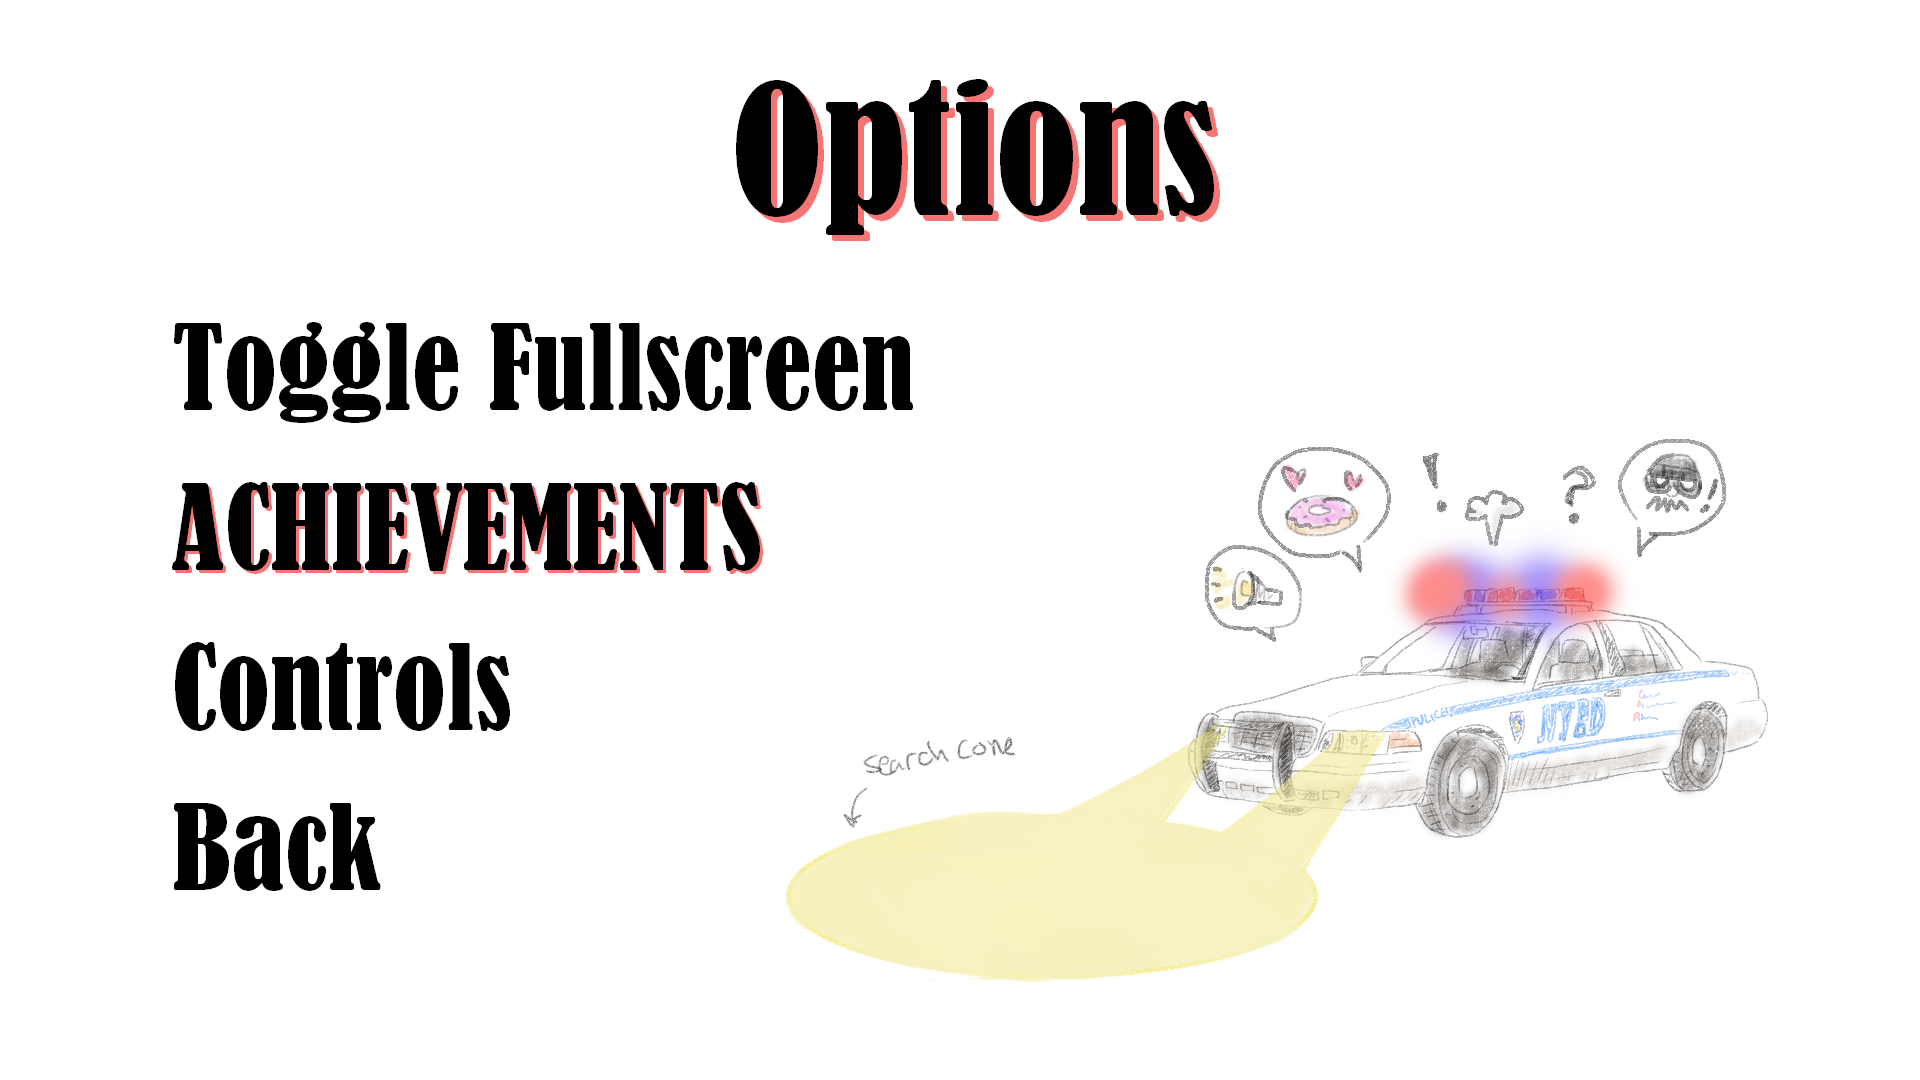
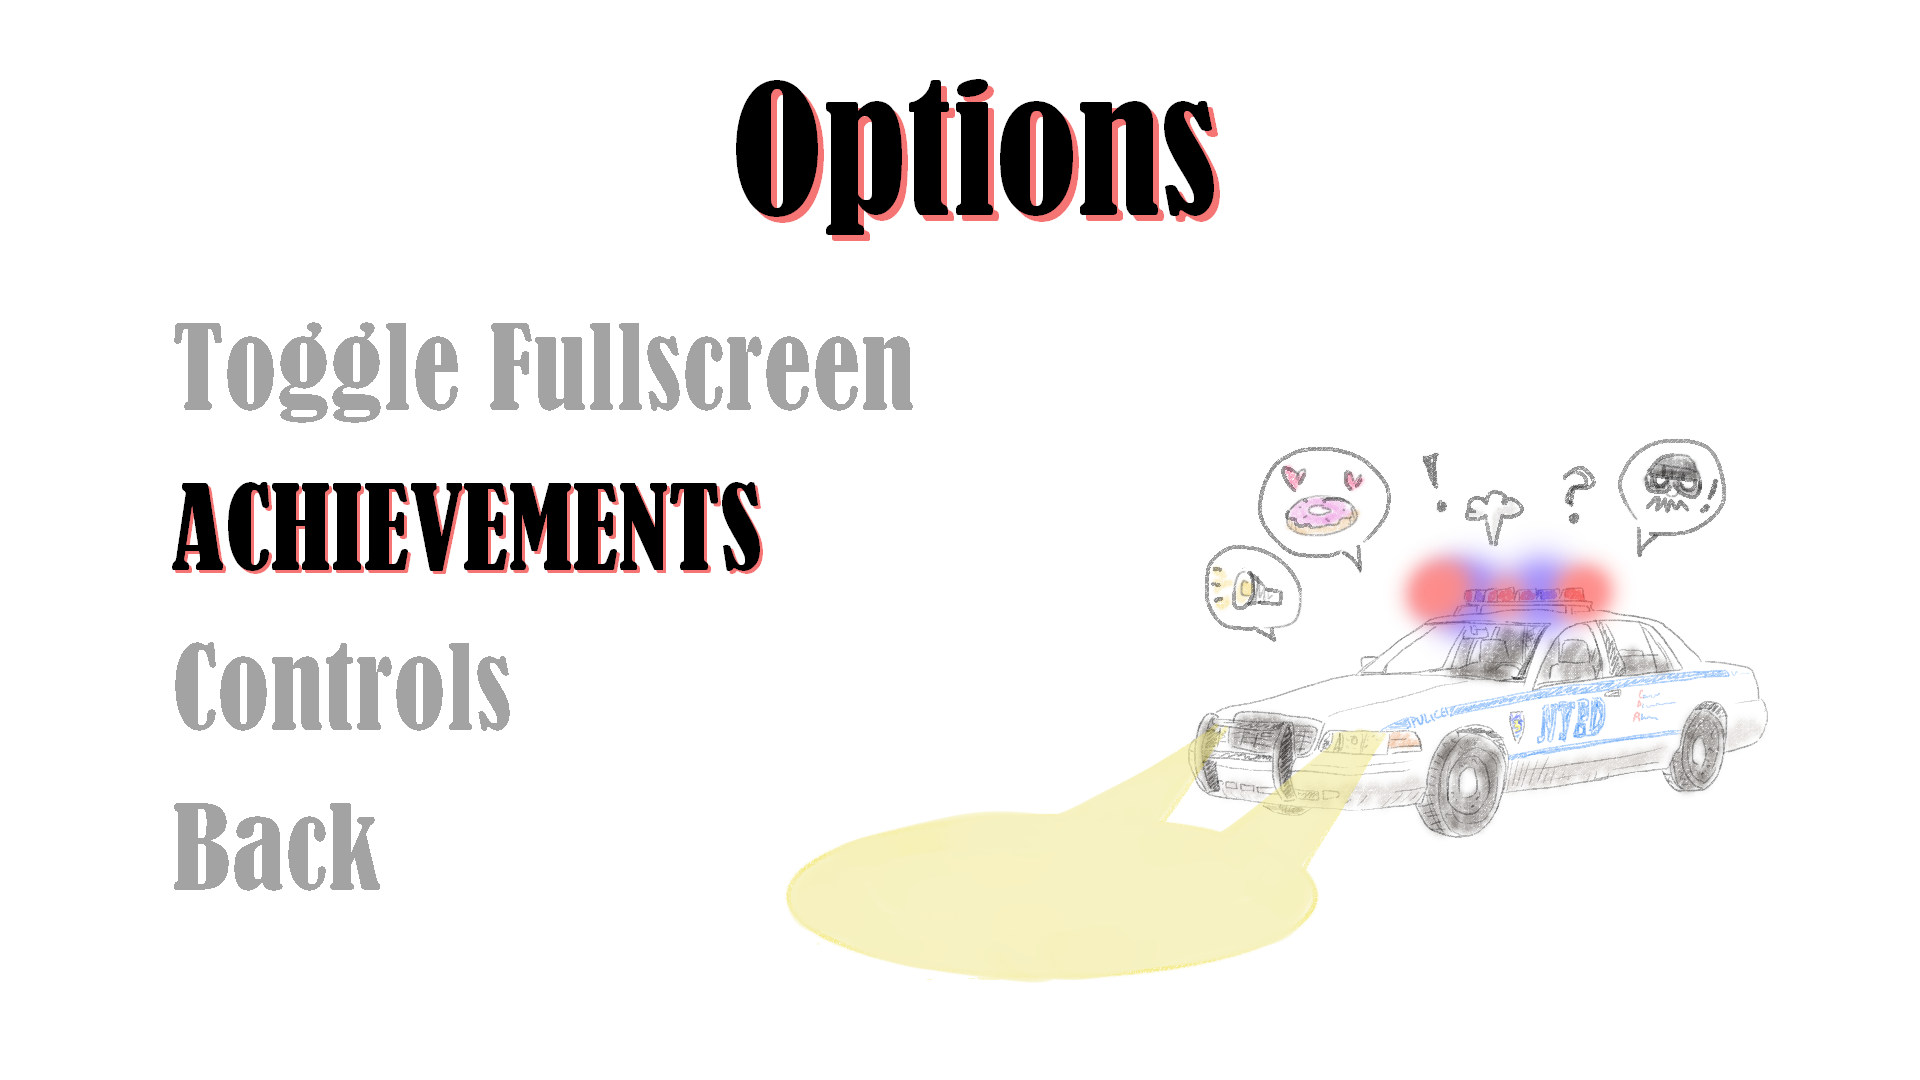
broken menu

diff --git a/AL_CARPONE/MainMenu.cpp b/AL_CARPONE/MainMenu.cpp
@@ -1,6 +1,9 @@
 #include "MainMenu.h"
 #include "physx_globals.h"
 
+#include <glm/glm.hpp>
+#include <glm/gtc/matrix_transform.hpp>
+
 #include "util.h" //load_positions
 
 
@@ -12,7 +15,7 @@ MainMenu::MainMenu() {
 	gameWinScreen = Model("models/mainMenu/WINSCREEN.obj");
 	gameLoseScreen = Model("models/mainMenu/LOSESCREEN.obj");
 	jailScreen = Model("models/mainMenu/BUSTED.obj");
-
+	checkmark = Model("models/mainMenu/checkmark.obj");
 	
 	selectionScreens = {
 		// Main menu
@@ -50,8 +53,12 @@ MainMenu::MainMenu() {
 ////////////////////////////////////////////////////////////////////////
 
 void MainMenu::drawMenu(GraphicsSystem& graphics, State& state, AudioSystem* audio) {
+
 	graphics.shader2D->use();
 	selectionScreens[selectedOption].Draw(*graphics.shader2D);
+	if (selectedOption == MenuSelection::ACHIEVEMENTS) {
+		drawCheckmarks(graphics, state);
+	}
 	handleInputs(state, audio, &graphics);
 }
 
@@ -76,12 +83,52 @@ void MainMenu::drawLoseScreen(GraphicsSystem& graphics) {
 	gameLoseScreen.Draw(*graphics.shader2D);
 }
 
-
-
 void MainMenu::drawJailScreen(GraphicsSystem* graphics) {
 	graphics->shader2D->use();
 	jailScreen.Draw(*graphics->shader2D);
 }
+
+// Where to place checkmark
+void MainMenu::drawCheckmarks(GraphicsSystem& graphics, State& state) {
+
+	// Left side
+	if (state.isJumpOutOfMap) {
+		glm::mat4 pos = glm::translate(glm::mat4(1.f), glm::vec3(-0.8, 0.5, 0));
+		graphics.shader2D->setMat4("model", pos);
+		checkmark.Draw(*graphics.shader2D);
+	}
+	if (state.isFinishGame) {
+		glm::mat4 pos = glm::translate(glm::mat4(1.f), glm::vec3(-0.8, -0.1, 0));
+		graphics.shader2D->setMat4("model", pos);
+		checkmark.Draw(*graphics.shader2D);
+	}
+	if (state.isDupeThePolice) {
+		glm::mat4 pos = glm::translate(glm::mat4(1.f), glm::vec3(-0.8, -0.8, 0));
+		graphics.shader2D->setMat4("model", pos);
+		checkmark.Draw(*graphics.shader2D);
+	}
+	
+	// Right side
+	if (state.unlockedAllUpgrades) {
+		glm::mat4 pos = glm::translate(glm::mat4(1.f), glm::vec3(0.3, 0.5, 0));
+		graphics.shader2D->setMat4("model", pos);
+		checkmark.Draw(*graphics.shader2D);
+	}
+	if (state.isMillionaire) {
+		glm::mat4 pos = glm::translate(glm::mat4(1.f), glm::vec3(0.3, -0.1, 0));
+		graphics.shader2D->setMat4("model", pos);
+		checkmark.Draw(*graphics.shader2D);
+	}
+	if (state.isRoofOfPoliceStation) {
+		glm::mat4 pos = glm::translate(glm::mat4(1.f), glm::vec3(0.3, -0.8, 0));
+		graphics.shader2D->setMat4("model", pos);
+		checkmark.Draw(*graphics.shader2D);
+	}
+	graphics.shader2D->setMat4("model", glm::mat4(1.f));
+	std::cout << "drawing checkmarks" << std::endl;
+}
+
+
 
 ////////////////////////////////////////////////////////////////////////
 // INPUT HANDLING
@@ -90,13 +137,27 @@ void MainMenu::drawJailScreen(GraphicsSystem* graphics) {
 
 void MainMenu::selectUp(State& state, AudioSystem* audio) {
 
-	if (selectedMenu == MenuType::ACHIEVEMENTS_MENU) { // special case
-		selectedOption = MenuSelection::BACK_TO_OPTIONS;
-	}
-	else {
-		int options = (selectedMenu == MenuType::OPTIONS_MENU) ? 4 : 3;
-		selectedOption = (selectedOption - 1) % options; // Each menu has 3 options (except options)
-		selectedOption += selectedMenu * 3;
+	std::cout << selectedMenu << ", " << selectedOption << std::endl;
+
+	switch (selectedMenu) {
+
+	case MenuType::MAIN_MENU:
+		selectedOption = (selectedOption - 1) % 3;
+		break;
+
+	case MenuType::OPTIONS_MENU:
+		selectedOption = (selectedOption - 1) % 4;
+		selectedOption += 3;
+		break;
+
+	case MenuType::CONTROLS_MENU:
+		selectedOption = (selectedOption - 1) % 3;
+		selectedOption += 7;
+		break;
+
+	case MenuType::ACHIEVEMENTS_MENU:
+		selectedOption = MenuSelection::A_BACK_TO_OPTIONS;
+		break;
 	}
 
 	audio->playSoundEffect(SOUND_SELECTION::MENU_CLICK_HIGH);
@@ -104,8 +165,26 @@ void MainMenu::selectUp(State& state, AudioSystem* audio) {
 
 
 void MainMenu::selectDown(State& state, AudioSystem* audio) {
-	selectedOption = (selectedOption + 1) % 3; // Each menu has 3 options
-	selectedOption += selectedMenu * 3;
+	switch (selectedMenu) {
+
+	case MenuType::MAIN_MENU:
+		selectedOption = (selectedOption + 1) % 3;
+		break;
+
+	case MenuType::OPTIONS_MENU:
+		selectedOption = (selectedOption + 1) % 4;
+		selectedOption += 3;
+		break;
+
+	case MenuType::CONTROLS_MENU:
+		selectedOption = (selectedOption + 1) % 3;
+		selectedOption += 7;
+		break;
+
+	case MenuType::ACHIEVEMENTS_MENU:
+		selectedOption = MenuSelection::A_BACK_TO_OPTIONS;
+		break;
+	}
 	audio->playSoundEffect(SOUND_SELECTION::MENU_CLICK_LOW);
 }
 
@@ -133,7 +212,7 @@ void MainMenu::selectCurrent(State& state, AudioSystem* audio, GraphicsSystem* g
 
 	case MenuSelection::ACHIEVEMENTS:
 		selectedMenu = MenuType::ACHIEVEMENTS_MENU;
-		selectedOption = MenuSelection::BACK_TO_OPTIONS;
+		selectedOption = MenuSelection::A_BACK_TO_OPTIONS;
 		break;
 
 	case MenuSelection::CONTROLS:
@@ -146,7 +225,7 @@ void MainMenu::selectCurrent(State& state, AudioSystem* audio, GraphicsSystem* g
 		selectedOption = MenuSelection::PLAYGAME;
 		break;
 
-		// just show screens (no functionality needed)
+	// just show screens (no functionality needed)
 	case MenuSelection::KEYBOARD:
 	case MenuSelection::CONTROLLER:
 		break;

diff --git a/AL_CARPONE/State.h b/AL_CARPONE/State.h
@@ -69,16 +69,16 @@ public:
 	bool gameLost = false;
 
 	//for achievement
-	bool isFinishGame = false;
-	bool isDupeThePolice = false;
-	bool isJumpOutOfMap = false;
-	bool isRoofOfPoliceStation = false;
-	bool unlockedAllUpgrades = false;
+	bool isFinishGame = true;//false;
+	bool isDupeThePolice = true;// false;
+	bool isJumpOutOfMap = true; // false;
+	bool isRoofOfPoliceStation = true;// false;
+	bool unlockedAllUpgrades = true;// false;
 	bool previousStateChase = false;
 	float dupe_level = 0;
 	float dupe_timer = 0;
 	float dupe_shouldArrest = false;
-	bool isMillionaire = false;
+	bool isMillionaire = true;// false;
 	//garage
 	bool g_draw = false;
 

diff --git a/AL_CARPONE/MainMenu.h b/AL_CARPONE/MainMenu.h
@@ -21,7 +21,9 @@ enum MenuSelection
 	// controls menu
 	KEYBOARD,
 	CONTROLLER,
-	BACK_TO_OPTIONS
+	BACK_TO_OPTIONS,
+	// achievements menu
+	A_BACK_TO_OPTIONS
 };
 
 enum MenuType
@@ -49,6 +51,7 @@ public:
 	Model gameWinScreen;
 	Model gameLoseScreen;
 	Model jailScreen;
+	Model checkmark;
 
 
 	std::vector<Model> selectionScreens;
@@ -59,6 +62,7 @@ public:
 
 
 	MainMenu();
+	void drawCheckmarks(GraphicsSystem& graphics, State& state);
 	void drawMenu(GraphicsSystem& graphics, State& state, AudioSystem* audio);
 	void drawLoadingGameScreen(GraphicsSystem& graphics);
 	void drawLoadingMapScreen(GraphicsSystem& graphics);
